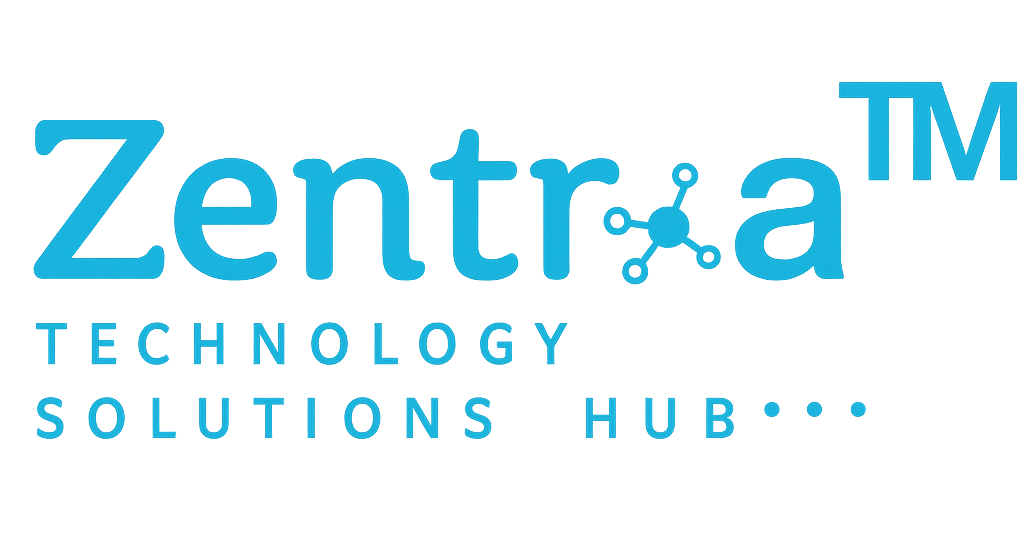
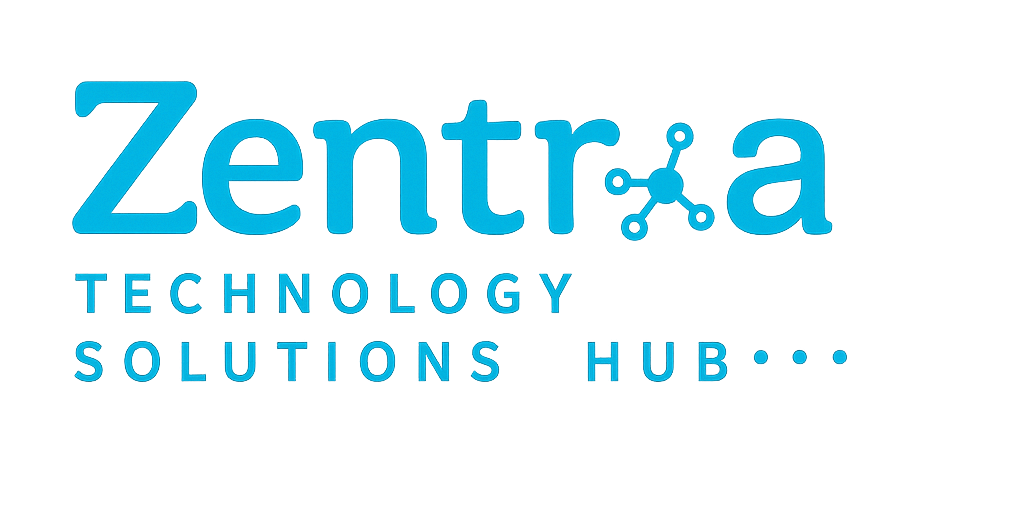
changes

Changed region(s): [[0.0312, 0.1231, 1.0, 0.8], [0.75, 0.7385, 0.8438, 0.7692]]

diff --git a/src/pages/Index.tsx b/src/pages/Index.tsx
@@ -13,7 +13,7 @@ import bg from "@/assets/web2.webp";
 import logod from "@/assets/logo-b.png";
 import whypart from "@/assets/index.jpg";
 
-import logoDark from "@/assets/white1.png"; 
+import logoDark from "@/assets/1.png"; 
 
 import medintel from "@/assets/medintel.jpg";
 import zedintel from "@/assets/intelzen.png";
@@ -55,16 +55,6 @@ const Index = () => {
     document.querySelectorAll(".animate-on-scroll").forEach(el => observer.observe(el));
     return () => observer.disconnect();
   }, []);
-
-  // Services
-  const services = [
-    { icon: Code, title: "Product Design & Development", description: "End-to-end product engineering with modern tech stacks and agile methodologies." },
-    { icon: Shield, title: "Quality Engineering", description: "Comprehensive testing and quality assurance for flawless digital experiences." },
-    { icon: Users, title: "UI/UX Design", description: "Human-centered design that creates intuitive and engaging user experiences." },
-    { icon: Database, title: "Data Analytics & Engineering", description: "Transform data into actionable insights with advanced analytics solutions." },
-    { icon: Target, title: "Strategic Business Consulting", description: "Strategic guidance to align technology with your business objectives." },
-    { icon: Zap, title: "Talent Solutions", description: "Access top-tier tech talent to accelerate your digital transformation." },
-  ];
 
   // Featured Services
   const featuredServices = [
@@ -153,100 +143,57 @@ const Index = () => {
         </div>
         <div className="absolute bottom-0 left-0 right-0 h-32 bg-gradient-to-t from-background to-transparent" />
       </section>
-  {/* Featured Services Section */}
-<section className="py-24 bg-background">
-  <div className="container mx-auto px-4 lg:px-8">
-    {/* Heading */}
-    <div className="text-center max-w-3xl mx-auto mb-16 animate-on-scroll">
-      <h2 className="text-4xl md:text-5xl font-bold mb-4 text-foreground">
-        Business Solutions
-      </h2>
-      <p className="text-xl text-muted-foreground">
-        Explore specialized solutions for key industries and business needs.
-      </p>
-    </div>
 
-    {/* Cards Grid */}
-    <div className="grid grid-cols-1 md:grid-cols-3 gap-10">
-      {featuredServices.map((service, index) => (
-        <Card
-          key={index}
-          className="overflow-hidden rounded-2xl shadow-xl hover:shadow-2xl transition-all duration-300 hover:-translate-y-1"
-        >
-          {/* Image Section */}
-          <div className="h-56 overflow-hidden">
-            <img
-              src={service.bgImage}
-              alt={service.title}
-              className="w-full h-full object-cover transition-transform duration-500 hover:scale-105"
-            />
-          </div>
-
-          {/* Content Section */}
-          <CardContent className="p-6 flex flex-col items-center text-center bg-primary/30 dark:bg-primary rounded-xl">
-          <div className="mb-3 text-3xl text-black dark:text-white">{service.icon}</div>
-          
-          <h3 className="text-xl font-bold mb-2 text-black dark:text-white">
-            {service.title}
-          </h3>
-          
-          <p className="text-sm mb-6 leading-relaxed text-black/80 dark:text-white/90">
-            {service.description}
-          </p>
-
-          {/* Centered Learn More Button */}
-          <Link to={service.link}>
-            <Button
-              size="sm"
-              className="px-6 py-2 rounded-full font-medium border border-black dark:border-white 
-                        text-black dark:text-white bg-white dark:bg-black 
-                        hover:bg-black hover:text-white dark:hover:bg-white dark:hover:text-primary transition"
-            >
-              {service.buttonText}
-            </Button>
-          </Link>
-        </CardContent>
-
-
-        </Card>
-      ))}
-    </div>
-  </div>
-</section>
-
-
-
-      {/* Services Section */}
+      {/* Featured Services Section */}
       <section className="py-24 bg-background">
         <div className="container mx-auto px-4 lg:px-8">
           <div className="text-center max-w-3xl mx-auto mb-16 animate-on-scroll">
-            <h2 className="text-4xl md:text-5xl font-bold mb-4 text-foreground">Our Services</h2>
+            <h2 className="text-4xl md:text-5xl font-bold mb-4 text-foreground">
+              Business Solutions
+            </h2>
             <p className="text-xl text-muted-foreground">
-              Comprehensive solutions tailored to accelerate your digital transformation journey
+              Explore specialized solutions for key industries and business needs.
             </p>
           </div>
-          <div className="grid grid-cols-1 md:grid-cols-2 lg:grid-cols-3 gap-8">
-            {services.map((service, index) => (
+
+          <div className="grid grid-cols-1 md:grid-cols-3 gap-10">
+            {featuredServices.map((service, index) => (
               <Card
                 key={index}
-                className={`animate-on-scroll card-hover border-border/50 bg-card transition-all duration-700 translate-y-4 opacity-0`}
-                style={{ transitionDelay: `${index * 150}ms` }}
+                className="overflow-hidden rounded-2xl shadow-xl hover:shadow-2xl transition-all duration-300 hover:-translate-y-1"
               >
-                <CardContent className="p-6 space-y-4">
-                  <div className="h-12 w-12 rounded-lg bg-primary/10 flex items-center justify-center">
-                    <service.icon className="h-6 w-6 text-primary" />
-                  </div>
-                  <h3 className="text-xl font-semibold text-card-foreground">{service.title}</h3>
-                  <p className="text-muted-foreground">{service.description}</p>
+                <div className="h-56 overflow-hidden">
+                  <img
+                    src={service.bgImage}
+                    alt={service.title}
+                    className="w-full h-full object-cover transition-transform duration-500 hover:scale-105"
+                  />
+                </div>
+
+                <CardContent className="p-6 flex flex-col items-center text-center bg-primary/30 dark:bg-primary rounded-xl">
+                  <div className="mb-3 text-3xl text-black dark:text-white">{service.icon}</div>
+                  <h3 className="text-xl font-bold mb-2 text-black dark:text-white">
+                    {service.title}
+                  </h3>
+                  <p className="text-sm mb-6 leading-relaxed text-black/80 dark:text-white/90">
+                    {service.description}
+                  </p>
+                  <Link to={service.link}>
+                    <Button
+                      size="sm"
+                      className="px-6 py-2 rounded-full font-medium border border-black dark:border-white 
+                                text-black dark:text-white bg-white dark:bg-black 
+                                hover:bg-black hover:text-white dark:hover:bg-white dark:hover:text-primary transition"
+                    >
+                      {service.buttonText}
+                    </Button>
+                  </Link>
                 </CardContent>
               </Card>
             ))}
           </div>
         </div>
       </section>
-
-      
-
 
       {/* Why Choose Us Section */}
       <section className="py-24 relative overflow-hidden">
@@ -274,6 +221,7 @@ const Index = () => {
           </div>
         </div>
       </section>
+
 
       {/* CTA Section */}
       <section

diff --git a/src/pages/About.tsx b/src/pages/About.tsx
@@ -13,6 +13,10 @@ import bgbanner from "@/assets/aboutcta.jpg";
 import teamMember1 from "@/assets/about.jpg"; // Placeholder
 import teamMember2 from "@/assets/about.jpg"; // Placeholder
 
+import medintel from "@/assets/medintel.jpg";
+import zedintel from "@/assets/intelzen.png";
+import tech from "@/assets/tech.png";
+
 const About = () => {
   // --- Animation Setup (Intersection Observer Logic) ---
   useEffect(() => {
@@ -227,6 +231,77 @@ const About = () => {
           </div>
         </div>
       </section>
+
+      {/* Explore Services Mission Section */}
+      <section className="py-24 bg-gray-50 dark:bg-background">
+        <div className="container mx-auto px-4 lg:px-8">
+          <div className="grid grid-cols-1 md:grid-cols-3 gap-10">
+            {/* MedIntel */}
+            <div className="group relative overflow-hidden rounded-3xl shadow-lg hover:shadow-2xl transition-all duration-500 bg-white dark:bg-card cursor-pointer">
+              <div className="h-64 overflow-hidden">
+                <img
+                  src={medintel}
+                  alt="MedIntel"
+                  className="w-full h-full object-cover transition-transform duration-500 group-hover:scale-105"
+                />
+              </div>
+              <div className="p-6 text-center">
+                <p className="text-lg text-foreground mb-4">
+                  MedIntel<sup className="text-1xl md:text-1xl align-super">™</sup> transforms healthcare through innovative digital solutions, empowering smarter decisions, better patient care, and operational excellence.
+                </p>
+                <Link to="/healthcare">
+                  <Button size="sm" className="px-6 py-2 rounded-full bg-primary text-white hover:bg-primary/90 transition">
+                    Explore
+                  </Button>
+                </Link>
+              </div>
+            </div>
+
+            {/* IntelZen */}
+            <div className="group relative overflow-hidden rounded-3xl shadow-lg hover:shadow-2xl transition-all duration-500 bg-white dark:bg-card cursor-pointer">
+              <div className="h-64 overflow-hidden">
+                <img
+                  src={zedintel}
+                  alt="IntelZen"
+                  className="w-full h-full object-cover transition-transform duration-500 group-hover:scale-105"
+                />
+              </div>
+              <div className="p-6 text-center">
+                <p className="text-lg text-foreground mb-4">
+                  IntelZen<sup className="text-1xl md:text-1xl align-super">™</sup> enhances human experiences with smart solutions, creating seamless engagement and impactful interactions across teams and customers.
+                </p>
+                <Link to="/human-experience">
+                  <Button size="sm" className="px-6 py-2 rounded-full bg-primary text-white hover:bg-primary/90 transition">
+                    Explore
+                  </Button>
+                </Link>
+              </div>
+            </div>
+
+            {/* Tech Consulting */}
+            <div className="group relative overflow-hidden rounded-3xl shadow-lg hover:shadow-2xl transition-all duration-500 bg-white dark:bg-card cursor-pointer">
+              <div className="h-64 overflow-hidden">
+                <img
+                  src={tech}
+                  alt="Tech Consulting"
+                  className="w-full h-full object-cover transition-transform duration-500 group-hover:scale-105"
+                />
+              </div>
+              <div className="p-6 text-center">
+                <p className="text-lg text-foreground mb-4">
+                  Our tech consulting empowers businesses with cutting-edge strategies, transforming operations and enabling measurable growth and innovation.
+                </p>
+                <Link to="/tech-consulting">
+                  <Button size="sm" className="px-6 py-2 rounded-full bg-primary text-white hover:bg-primary/90 transition">
+                    Explore
+                  </Button>
+                </Link>
+              </div>
+            </div>
+          </div>
+        </div>
+      </section>
+
 
       {/* CTA Section (The Accent Block with Image) */}
       <section

diff --git a/src/pages/HumanExperience.tsx b/src/pages/HumanExperience.tsx
@@ -81,7 +81,7 @@ const HumanExperience = () => {
                 <div className="container mx-auto px-4 lg:px-8 relative z-10 py-32 text-foreground"> 
                     <div className="max-w-4xl mx-auto text-center space-y-8 animate-on-scroll">
                         <h1 className="text-5xl md:text-6xl font-bold text-foreground opacity-0 animate-[fadeInUp_0.8s_ease-out_0.15s_forwards]">
-                            <span className="text-primary">IntelZen<sup className="text-2xl md:text-3xl align-super font-bold tracking-tight">™</sup></span> Smarter Intelligent Facility Management. <span className="text-primary">Powered by AI.</span>
+                            <span className="text-primary">IntelZen<sup className="text-2xl md:text-3xl align-super font-bold tracking-tight">™</sup></span> Smarter Intelligent Issue Management <span className="text-primary">Powered by AI.</span>
                         </h1>
                         <p className="text-xl text-muted-foreground opacity-0 animate-[fadeInUp_0.8s_ease-out_0.35s_forwards]">
                             Transform the way you manage buildings, workplaces, and industrial sites with intelligent issue tracking, automated task routing, and real-time analytics—all in one platform.
@@ -107,7 +107,7 @@ const HumanExperience = () => {
                         
                         {/* LEFT: The Challenge (Section 1 Content) */}
                         <div className="space-y-6 animate-on-scroll translate-y-4 opacity-0 transition-all duration-700">
-                            <h2 className="text-4xl font-bold text-foreground">Facility Management Is Complex — IntelZen™ Makes It Simple</h2>
+                            <h2 className="text-4xl font-bold text-foreground">Issue Management Is Complex — IntelZen™ Makes It Simple</h2>
                             <p className="text-lg text-muted-foreground leading-relaxed">
                                 Managing multiple properties, offices, or plants involves hundreds of maintenance requests, safety checks, and service tasks every week. Without structure and visibility, issues go unresolved, SLAs are missed, and costs rise.
                             </p>

diff --git a/src/components/Navbar.tsx b/src/components/Navbar.tsx
@@ -3,8 +3,8 @@ import { Link, useLocation } from "react-router-dom";
 import { Menu, X, ChevronDown } from "lucide-react";
 import { Button } from "@/components/ui/button";
 import { ThemeToggle } from "@/components/ThemeToggle";
-import logoDark from "@/assets/white1.png"; 
-import logo from "@/assets/blue.png"; 
+import logoDark from "@/assets/1.png"; 
+import logo from "@/assets/2.png"; 
 // 🚨 FIX: Using a robust, guaranteed placeholder for the light logo
 const logoLight = logo; 
 

diff --git a/src/components/Footer.tsx b/src/components/Footer.tsx
@@ -1,9 +1,9 @@
 import { Link } from "react-router-dom";
 import { Linkedin, Twitter, Mail, MapPin, Phone } from "lucide-react";
 // 🚨 UPDATED LOGO IMPORTS for dual theme support
-import logoLight from "@/assets/blue.png"; 
+import logoLight from "@/assets/2.png"; 
 // Assuming the dark logo is named 'logo-dark.png'
-import logoDark from "@/assets/white1.png"; 
+import logoDark from "@/assets/1.png"; 
 
 export const Footer = () => {
   return (

diff --git a/src/pages/Contact.tsx b/src/pages/Contact.tsx
@@ -117,7 +117,7 @@ const Contact = () => {
 
   return (
     <div className="min-h-screen bg-background">
-      <Navbar />
+      <Navbar/>
 
       {/* Hero Section - Image Background, Responsive Overlay, and Consistent Width */}
       <section 
